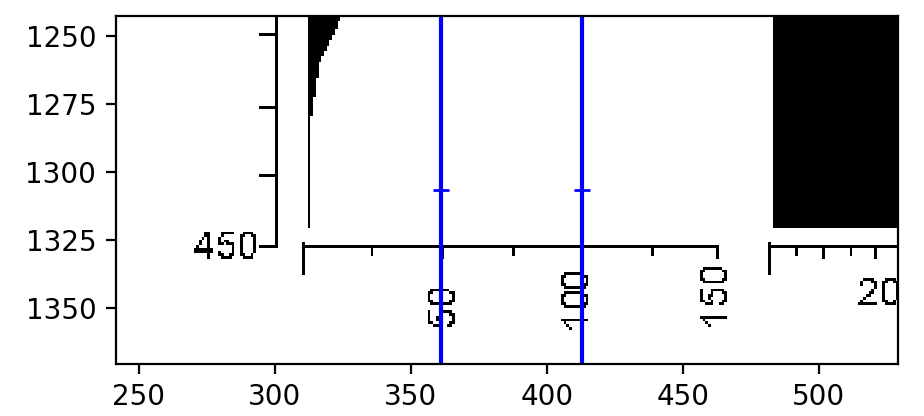
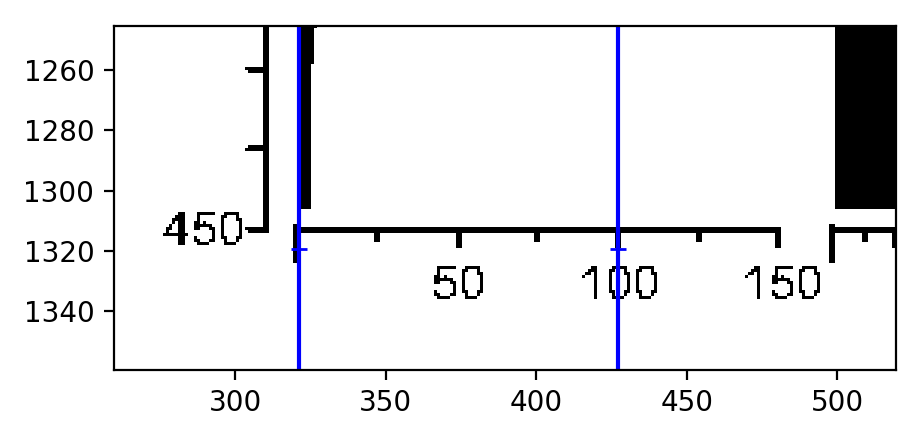
Updated tutorial with new image
removed Alnus, Helianthemum, Ulmus, Bidens, Plantago media/major, and Plantago lusitania from the tutorial image

Changed region(s): [[0.0306, 0.0312, 0.9782, 1.0]]

diff --git a/straditize/widgets/tutorial/__init__.py b/straditize/widgets/tutorial/__init__.py
@@ -432,13 +432,13 @@ class SelectDataPart(TutorialPage):
     """TutorialPage for selecting the data part"""
 
     #: The reference x- and y- limits
-    ref_lims = np.array([[307, 2066], [556, 1326]])
+    ref_lims = np.array([[315, 1946], [511, 1311]])
 
     #: Valid ranges for xmin and xmax
-    valid_xlims = np.array([[300, 311], [2037, 2071]])
+    valid_xlims = np.array([[310, 319], [1928, 1960]])
 
     #: Valid ranges for ymin and ymax
-    valid_ylims = np.array([[554, 557], [1321, 1327]])
+    valid_ylims = np.array([[508, 513], [1307, 1312]])
 
     marks = []
 
@@ -607,7 +607,7 @@ class SeparateColumns(TutorialPage):
     def is_finished(self):
         reader = self.straditizer_widgets.straditizer.data_reader
         return (reader._column_starts is not None and
-                len(reader._column_starts) == 34)
+                len(reader._column_starts) == 28)
 
     def skip(self):
         reader = self.straditizer_widgets.straditizer.data_reader
@@ -645,15 +645,15 @@ class SeparateColumns(TutorialPage):
             else:
                 self.show_tooltip_at_widget(
                     "Click the <i>%s</i> button to start" % btn.text(), btn)
-        elif starts is not None and len(starts) != 34:
+        elif starts is not None and len(starts) != 28:
             if self.is_selecting:
                 self.show_tooltip_in_plot(
-                    "There are 34 columns in the diagram. Select all or "
+                    "There are 28 columns in the diagram. Select all or "
                     "cancel and hit the <i>Reset</i> button",
                     stradi.data_xlim.mean(), stradi.data_ylim.mean())
             else:
                 self.show_tooltip_at_widget(
-                    "The diagram has 34 columns, not %i. Hit the <i>Reset</i> "
+                    "The diagram has 28 columns, not %i. Hit the <i>Reset</i> "
                     "button or modify the column starts.",
                     sw.digitizer.btn_reset_columns)
         elif self.is_selecting:  # currently creating marks
@@ -751,9 +751,9 @@ class RemoveLines(TutorialPage):
                     self.show_tooltip_at_widget(
                         "Enable the maximum linewidth",
                         sw.digitizer.cb_max_lw)
-                elif sw.digitizer.sp_max_lw.value() != 1:
+                elif sw.digitizer.sp_max_lw.value() != 2:
                     self.show_tooltip_at_widget(
-                        "Set the maximum line width to 1",
+                        "Set the maximum line width to 2",
                         sw.digitizer.sp_max_lw)
                 elif lf > 30:
                     self.show_tooltip_at_widget(
@@ -856,7 +856,7 @@ class TranslateYAxis(TutorialPage):
         self.clicked_correct_button()
         self.straditizer_widgets.straditizer.yaxis_data = np.array([300, 350])
         self.straditizer_widgets.straditizer._yaxis_px_orig = \
-            np.array([940, 1070])
+            np.array([910, 1045])
 
     def activate(self):
         btn = self.straditizer_widgets.axes_translations.btn_marks_for_y
@@ -924,20 +924,20 @@ class TranslateXAxis(TutorialPage):
         reader = reader.get_reader_for_col(0)
         if len(reader.columns) > 1:
             reader = reader.new_child_for_cols([0], reader.__class__)
-        reader._xaxis_px_orig = np.array([362, 413])
-        reader.xaxis_data = np.array([50., 100.])
+        reader._xaxis_px_orig = np.array([321, 427])
+        reader.xaxis_data = np.array([0., 100.])
 
         # pollen concentration
-        reader = reader.get_reader_for_col(33)
+        reader = reader.get_reader_for_col(27)
         if len(reader.columns) > 1:
-            reader = reader.new_child_for_cols([33], reader.__class__)
-        reader._xaxis_px_orig = np.array([1970, 2046])
-        reader.xaxis_data = np.array([30000., 60000.])
+            reader = reader.new_child_for_cols([27], reader.__class__)
+        reader._xaxis_px_orig = np.array([1776, 1855])
+        reader.xaxis_data = np.array([0., 30000.])
 
         # pollen taxa
         reader = reader.get_reader_for_col(1)
-        reader._xaxis_px_orig = np.array([521, 563])
-        reader.xaxis_data = np.array([20., 40.])
+        reader._xaxis_px_orig = np.array([499, 583])
+        reader.xaxis_data = np.array([0., 40.])
         self.straditizer_widgets.refresh()
 
     def refresh(self):
@@ -982,7 +982,7 @@ class TranslateXAxis(TutorialPage):
         stradi = sw.straditizer
         current = stradi.data_reader
         reader = current.get_reader_for_col(col)
-        if col in [0, 33] and len(reader.columns) > 1:
+        if col in [0, 27] and len(reader.columns) > 1:
             # no child reader has yet been created
             if not self.is_selecting and not reader_item.isExpanded():
                 self.show_tooltip_at_widget(
@@ -1064,7 +1064,7 @@ class TranslateXAxis(TutorialPage):
         if self.is_finished:
             super().hint()
         else:
-            for col in [0, 33, 1]:
+            for col in [0, 27, 1]:
                 if not self.hint_for_col(col):
                     break
 

diff --git a/tests/widgets/test_axes_translations.py b/tests/widgets/test_axes_translations.py
@@ -20,6 +20,7 @@ class AxesTranslation(bt.StraditizeWidgetsTestCase):
         self.assertTrue(btn.isEnabled())
 
         # create the marks
+        self.straditizer_widgets.axes_translations.marks_for_x(False)
         QTest.mouseClick(btn, Qt.LeftButton)
         x0 = self.data_xlim[0] + self.reader.column_starts[1]
         x1 = x0 + self.reader.sample_locs.iloc[-1, 1]

diff --git a/straditize/widgets/tutorial/docs/straditize_tutorial_xaxis_translation.rst b/straditize/widgets/tutorial/docs/straditize_tutorial_xaxis_translation.rst
@@ -31,18 +31,23 @@ procedure is more or less the same, as before with the y-axis:
 
 1. Click the :guilabel:`Insert X-axis values` button in the `Axes translations`
    section of the straditizer control
-2. Shift-leftclick on the plot in the first column to enter the corresponding
-   x-value.
-3. A small dialog will appear where you should enter the x-value to use
-4. After hitting the :guilabel:`Ok` button, you will see a mark on the plot
+2. A small dialog will appear where you should enter the x-value of the start
+   of the column (here ``0``).
+
+   .. note::
+
+        The dialog only appears, if the start of one of the selected columns is
+        visible. If this is not the case, Shift-Leftclick on the plot to
+        create a mark.
+3. After hitting the :guilabel:`Ok` button, you will see a mark on the plot
    (blue line). You can select the mark via leftclick and drag it to a
    different location or you can delete it via rightclick.
-5. now repeat steps 2-4 on a second point in the same column. Your diagram
+4. now repeat steps 2-4 on a second point in the same column. Your diagram
    should now look something like this:
 
    .. image:: select-x0-col0.png
 
-6. Click the :guilabel:`Apply` button at the bottom of the straditizer control
+5. Click the :guilabel:`Apply` button at the bottom of the straditizer control
    and we can continue with the last column
 
 The `Pollen Concentration` column
@@ -64,17 +69,16 @@ procedure is the same as above:
 
 1. Click the :guilabel:`Insert X-axis values` button in the `Axes translations`
    section of the straditizer control
-2. Shift-leftclick on the plot in the last column to enter the corresponding
-   x-value.
-3. A small dialog will appear where you should enter the x-value to use
-4. After hitting the :guilabel:`Ok` button, you will see a mark on the plot
+2. In the appearing dialog, enter the x-value of the column start (here again
+   ``0``) or Shift-Leftclick on the plot and then enter it (see note above).
+3. After hitting the :guilabel:`Ok` button, you will see a mark on the plot
    (blue line). Again, you can select the mark, drag it or delete it as before.
-5. now repeat steps 2-4 on a second point in the same column. Your diagram
+4. now repeat steps 2-4 on a second point in the same column. Your diagram
    should now look something like this:
 
-   .. image:: select-x0-col33.png
+   .. image:: select-x0-col27.png
 
-6. Click the :guilabel:`Apply` button at the bottom of the straditizer control
+5. Click the :guilabel:`Apply` button at the bottom of the straditizer control
    and we can continue with the pollen taxa.
 
 The pollen taxa columns
@@ -90,14 +94,13 @@ Therefore it is enough to perform the above steps just for one of the columns.
    *Columns 1-32* to make it the current reader.
 2. Click the :guilabel:`Insert X-axis values` button in the `Axes translations`
    section of the straditizer control
-3. Shift-leftclick on the plot in one of the pollen taxa columns to enter the
-   corresponding x-value.
-4. A small dialog will appear where you should enter the x-value to use
-5. After hitting the :guilabel:`Ok` button, you will see a mark on the plot
+3. In the appearing dialog, enter the x-value of the column start (here again
+  ``0``) or Shift-Leftclick on the plot and then enter it (see note above).
+4. After hitting the :guilabel:`Ok` button, you will see a mark on the plot
    (blue line). Again, you can select the mark, drag it or delete it as before.
-6. now repeat steps 2-4 on a second point in the same column. Your diagram
+5. now repeat steps 2-4 on a second point in the same column. Your diagram
    should now look something like this:
 
-   .. image:: select-x0-col1-32.png
+   .. image:: select-x0-col1-26.png
 
-7. Click the :guilabel:`Apply` button at the bottom of the straditizer control.
+6. Click the :guilabel:`Apply` button at the bottom of the straditizer control.

diff --git a/straditize/widgets/tutorial/docs/straditize_tutorial_remove_lines.rst b/straditize/widgets/tutorial/docs/straditize_tutorial_remove_lines.rst
@@ -34,8 +34,7 @@ Horizontal lines
 Vertical lines (y-axes)
 -----------------------
 
-1. Enable the maximum line width and set it to a reasonable value (here it is
-   also 1 pixel)
+1. Enable the maximum line width and set it to 2 pixel
 2. Set the minimum fraction to 30%
 3. Click the :guilabel:`vertical lines` button and the vertical lines turn
    red and are marked for removement.
